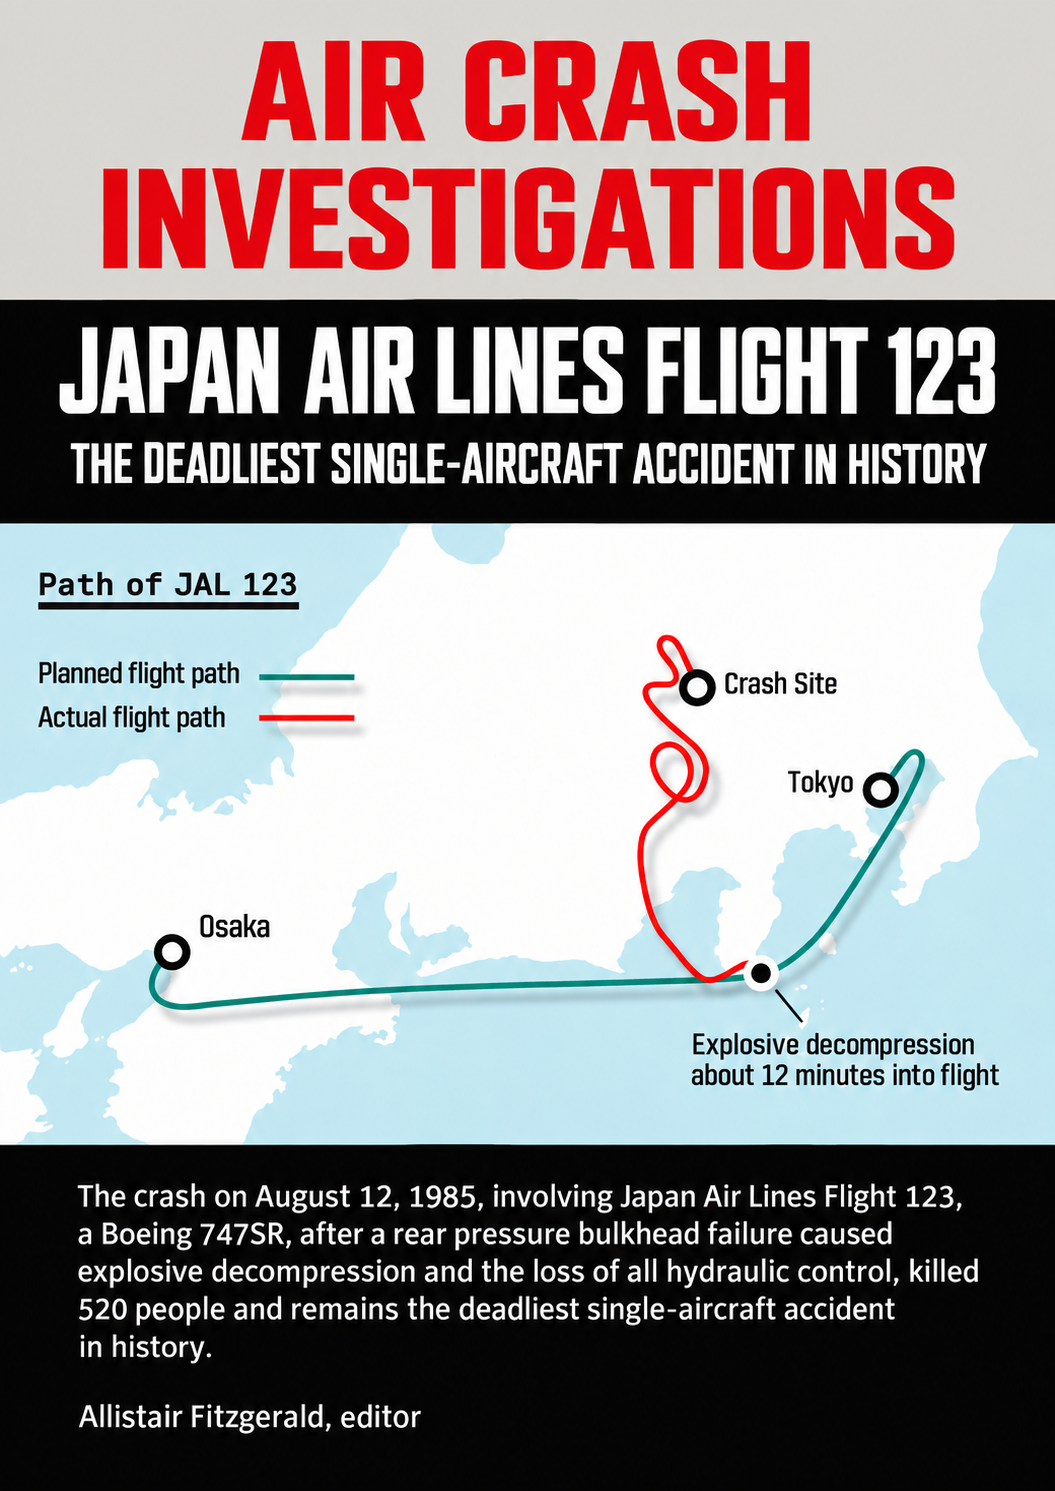
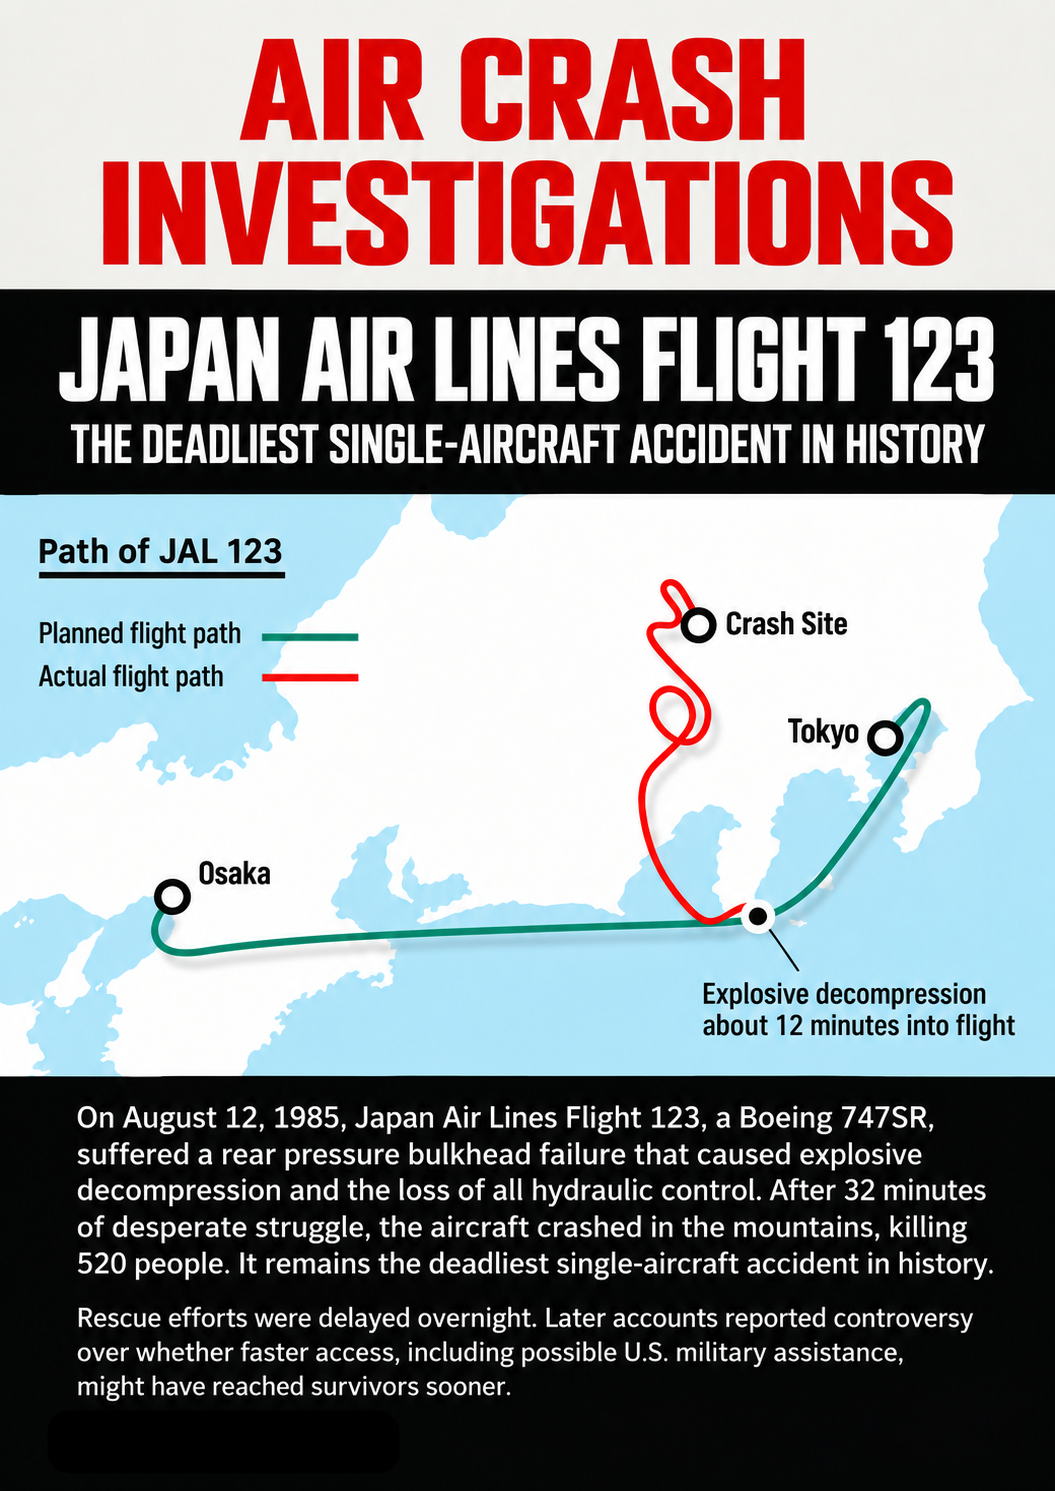
image update

diff --git a/README.md b/README.md
@@ -104,7 +104,7 @@ This repository is not a reading tracker. It is a map of ideas, concepts, and fr
 ![Structural Failure](https://img.shields.io/badge/Structural%20Failure-critical)
 ![Hydraulic Failure](https://img.shields.io/badge/Hydraulic%20Failure-darkred)
 ![Crew Heroism](https://img.shields.io/badge/Crew%20Heroism-yellow)
-
+![Political Failure](https://img.shields.io/badge/Political%20Failure-pink)
 ---
 
 # Books
